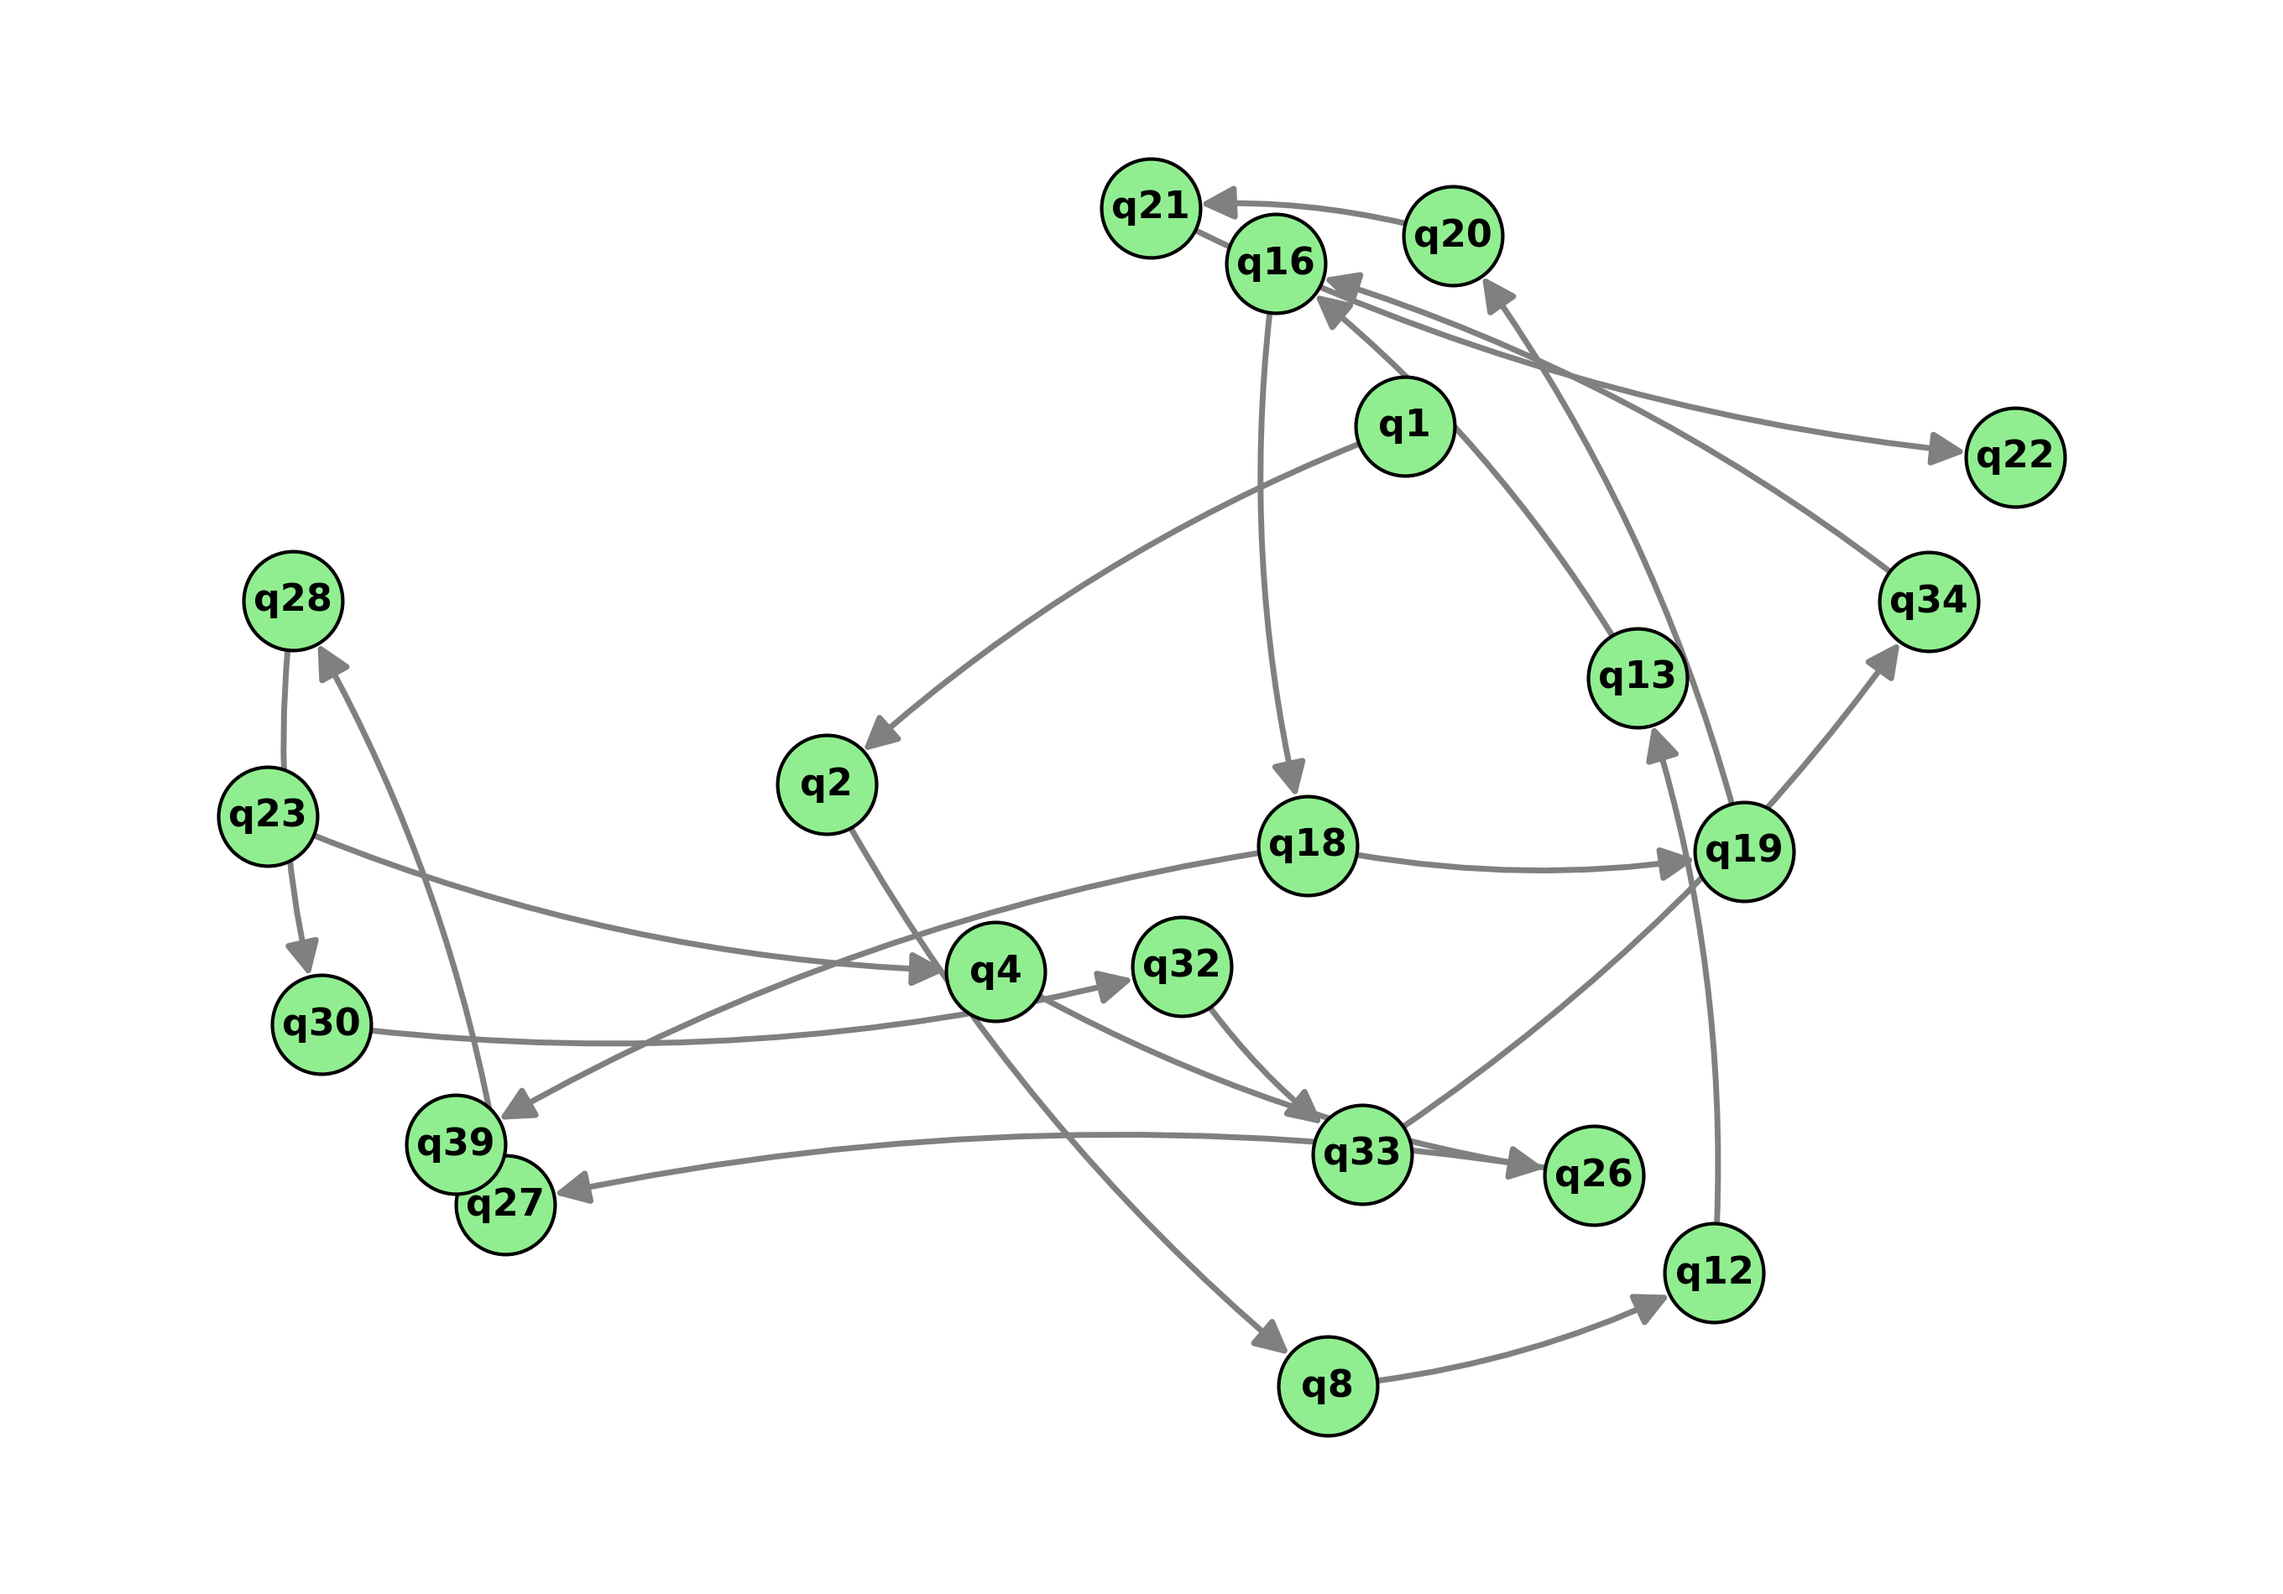
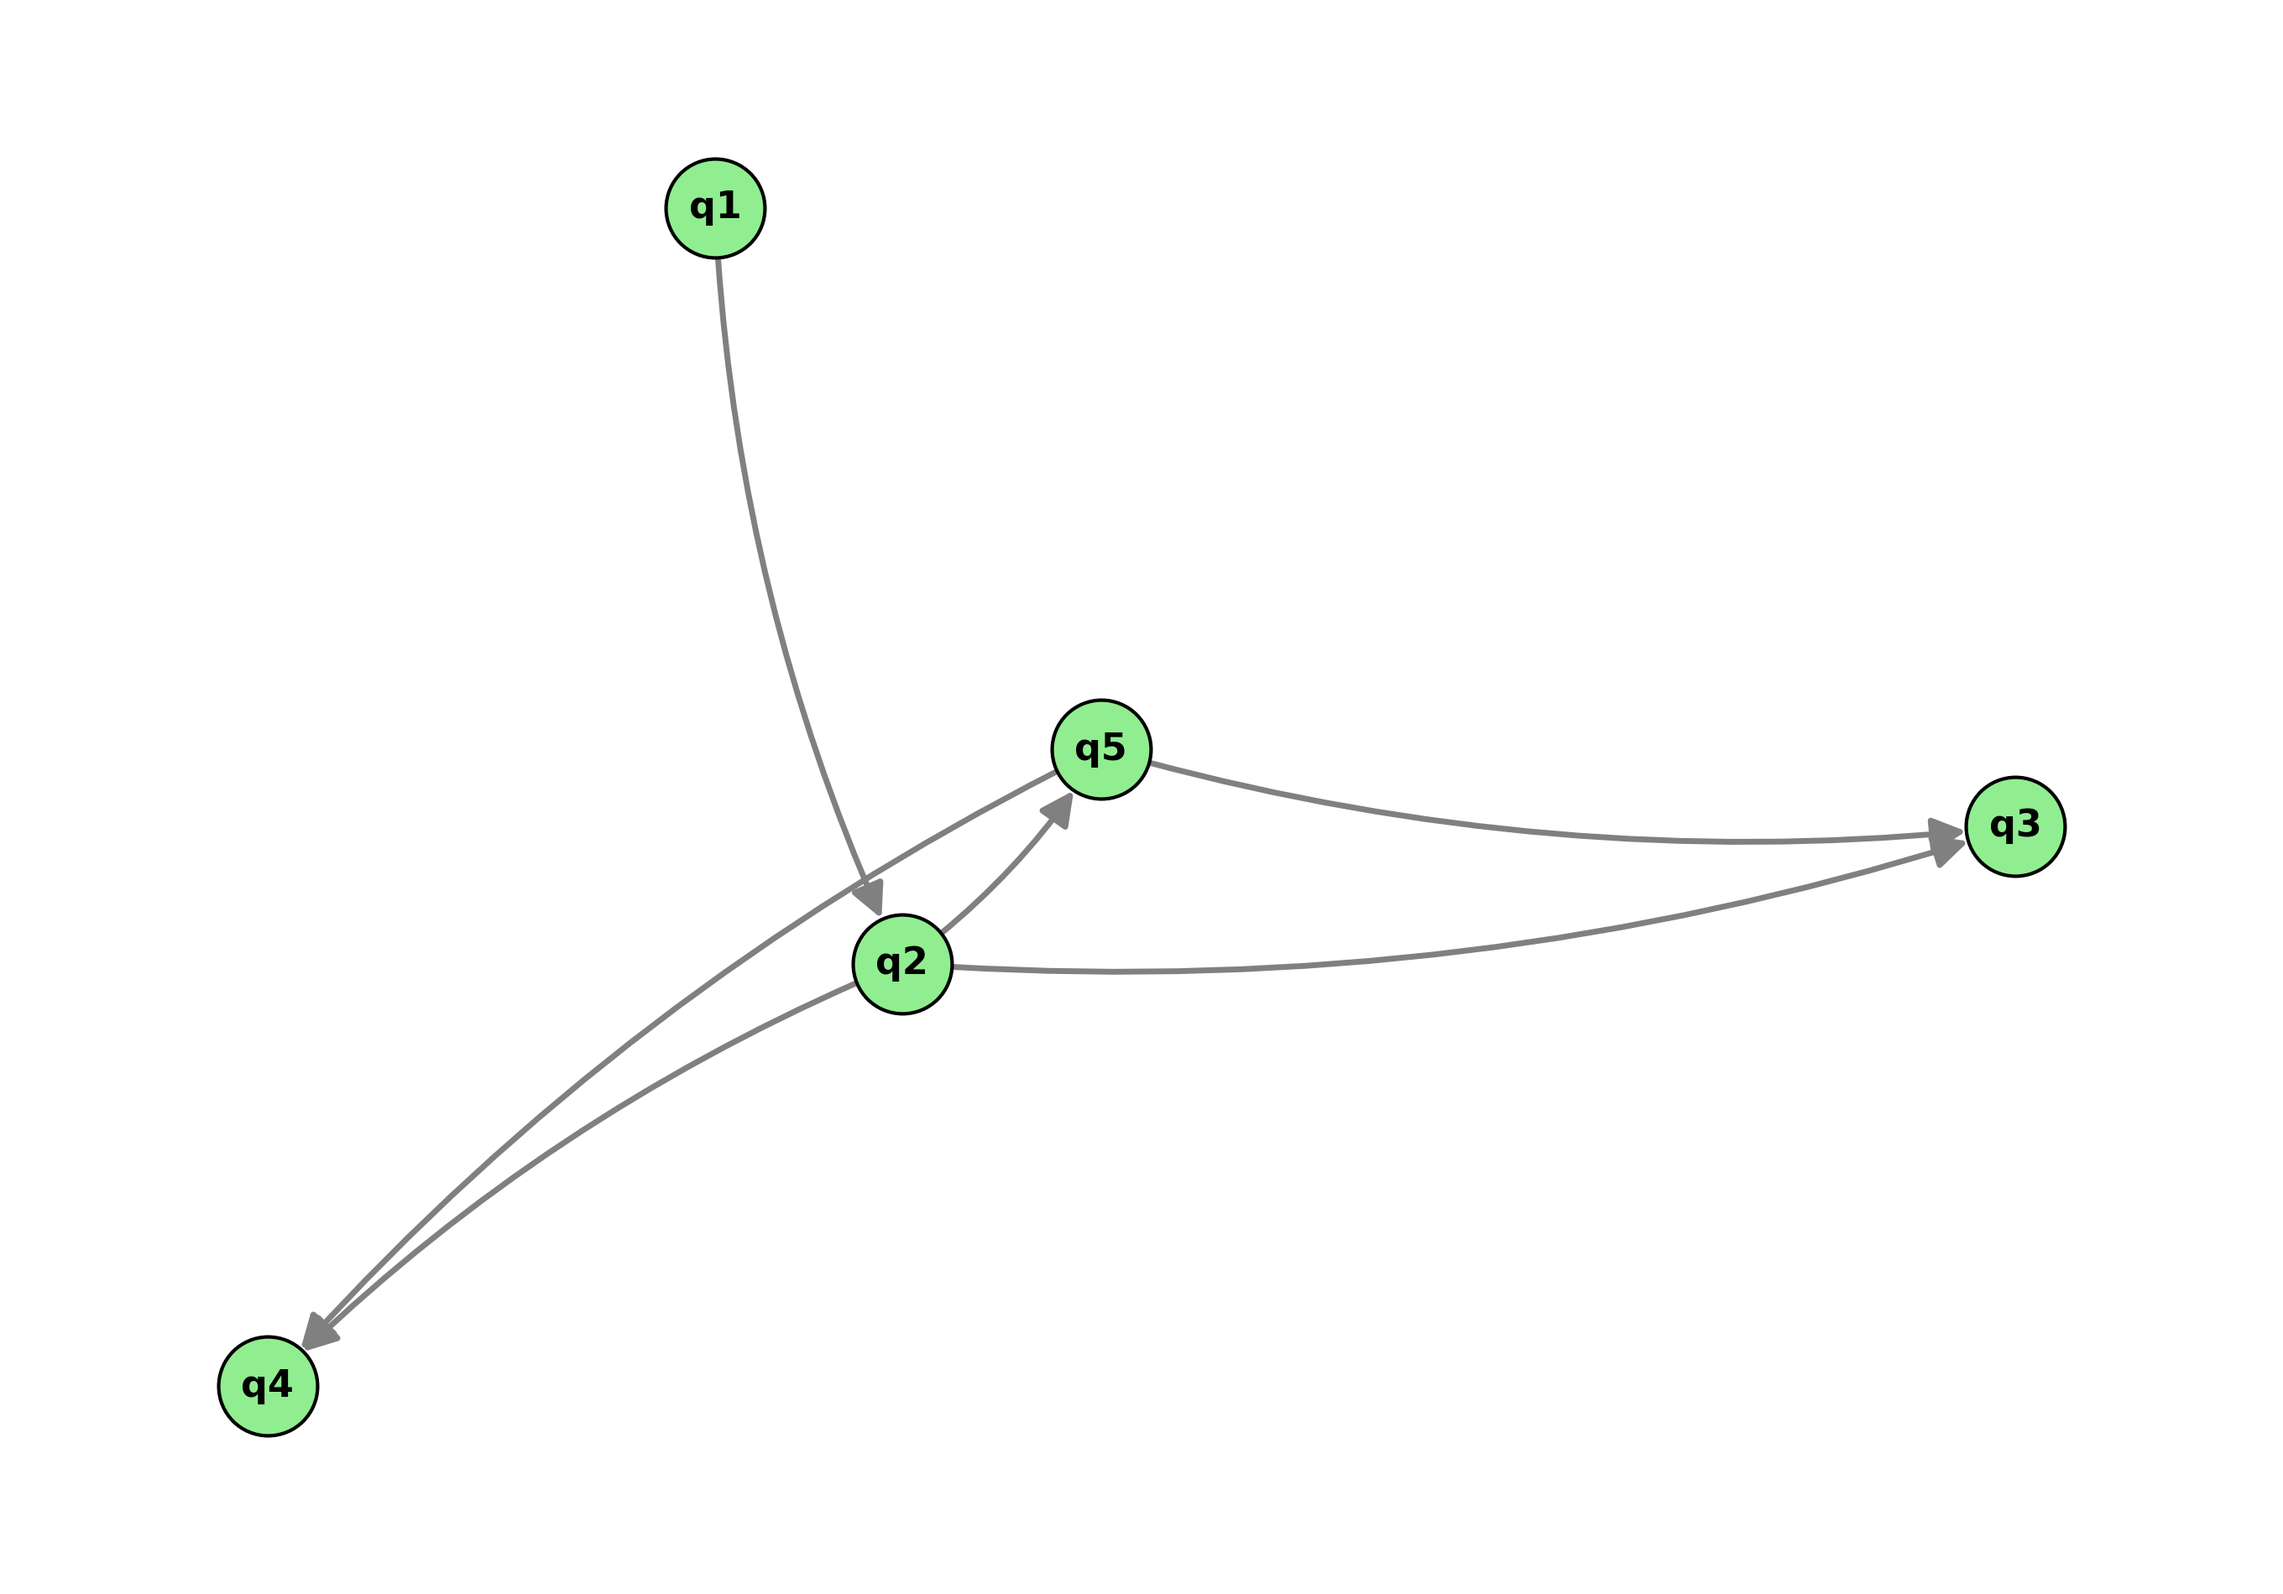
Исправлена проблема с пустой альтернативой, теперь она учитывается.

diff --git a/regex.py b/regex.py
@@ -29,29 +29,40 @@ def build_regex(state, transitions_dict, visited=None, memo=None):
 
         # Для каждого следующего состояния строим выражение
         next_exprs = []
+        has_empty = False
+
         for next_state in next_states:
             if next_state == 'Z':
                 next_exprs.append("")
+                has_empty = True
             else:
                 rec = build_regex(next_state, transitions_dict, visited.copy(), memo)
                 next_exprs.append(rec if rec else "")
 
+        # Фильтруем пустые выражения
+        non_empty = [expr for expr in next_exprs if expr != ""]
+
         # Формируем выражение для текущего ребра
-        if len(next_exprs) == 1:
-            if next_exprs[0]:
-                branch = f"{label}{next_exprs[0]}"
+        if has_empty and non_empty:
+            # Есть вариант закончить здесь и вариант продолжить
+            # Используем альтернативу с пустой строкой: label(продолжение|)
+            if len(non_empty) == 1:
+                # label(продолжение|)
+                branch = f"{label}({non_empty[0]}|)"
             else:
-                branch = label
-        else:
-            # Несколько вариантов после этого ребра
-            non_empty = [expr for expr in next_exprs if expr != ""]
-            if not non_empty:
-                branch = label
-            elif len(non_empty) == 1:
-                branch = f"{label}{non_empty[0]}"
-            else:
+                # label(продолжение1|продолжение2|)
                 inner = "|".join(non_empty)
-                branch = f"{label}({inner})"
+                branch = f"{label}({inner}|)"
+        elif has_empty and not non_empty:
+            # Только завершение - это просто label (пустая строка не нужна)
+            branch = label
+        elif not has_empty and len(non_empty) == 1:
+            # Один путь продолжения
+            branch = f"{label}{non_empty[0]}"
+        else:
+            # Несколько путей продолжения без завершения
+            inner = "|".join(non_empty)
+            branch = f"{label}({inner})"
 
         branches.append(branch)
 
@@ -80,7 +91,6 @@ def merge_branches_with_common_prefix(branches):
 
     if common_prefix:
         # Проверяем, что общий префикс - это целые токены qN
-        # Чтобы не разрывать q1 и q23 на q и 1|23
         if common_prefix.endswith('q'):
             # Если общий префикс заканчивается на 'q', то это не полный токен
             # Нужно найти общий префикс по полным токенам
@@ -126,7 +136,7 @@ def find_common_token_prefix(strings):
     # Разбиваем каждую строку на токены qN
     tokenized = []
     for s in strings:
-        tokens = re.findall(r'q\d+|[^q]', s)
+        tokens = re.findall(r'q\d+|\(|\)|\|', s)
         tokenized.append(tokens)
 
     # Ищем общий префикс из токенов
@@ -163,6 +173,31 @@ def find_common_prefix(strings):
             break
 
     return prefix
+
+
+def simplify_expression(expr):
+    """Упрощает регулярное выражение"""
+    if not expr:
+        return expr
+
+    # Удаляем пустые альтернативы в конце: (A|) -> (A|)
+    # Это нормально, оставляем как есть
+
+    # Удаляем лишние скобки вокруг одиночных токенов
+    expr = re.sub(r'\(q\d+\)', r'q\1', expr)
+
+    # Упрощаем (A|) когда A - простой токен
+    expr = re.sub(r'\(q\d+\|\)', r'q\d+?', expr)
+
+    # Удаляем (A) когда A не содержит |
+    while expr.startswith("(") and expr.endswith(")"):
+        inner = expr[1:-1]
+        if '|' not in inner:
+            expr = inner
+        else:
+            break
+
+    return expr
 
 
 def extract_common_prefix(expr):
@@ -230,7 +265,6 @@ def remove_extra_parentheses(expr):
         # Удаляем (A|B) если это единственная альтернатива
         if expr.startswith("(") and expr.endswith(")") and "|" in expr:
             inner = expr[1:-1]
-            # Проверяем, что скобки сбалансированы
             if inner.count("(") == inner.count(")"):
                 expr = inner
                 changed = True
@@ -244,7 +278,6 @@ def simplify_final(expr):
     while expr.startswith("(") and expr.endswith(")"):
         inner = expr[1:-1]
         if "|" in inner:
-            # Проверяем, не являются ли скобки необходимыми
             if inner.count("(") == inner.count(")"):
                 expr = inner
             else:
